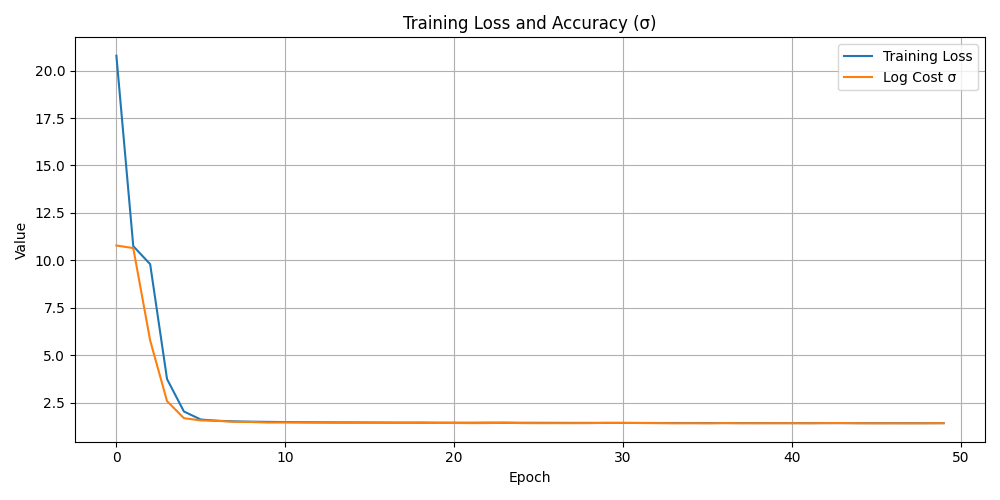
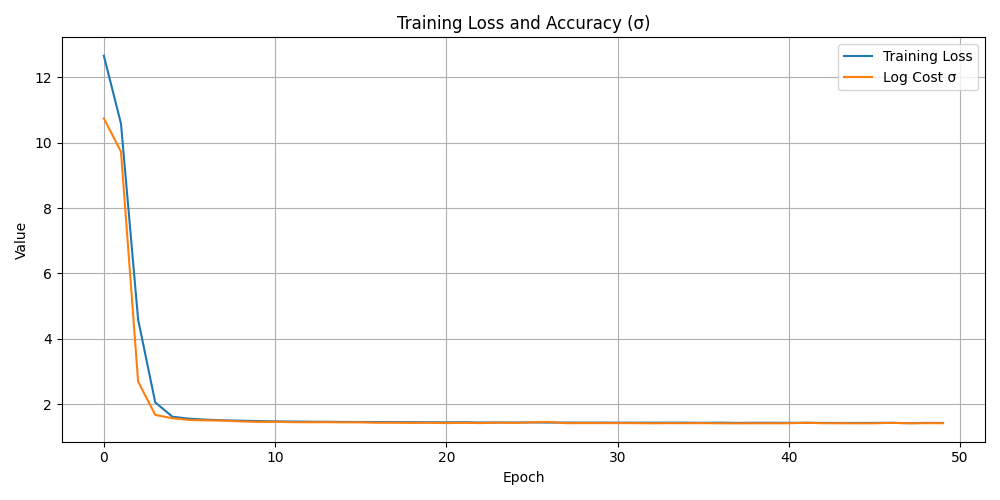
gnn is trash

diff --git a/project/gnn.py b/project/gnn.py
@@ -1,0 +1,221 @@
+import torch
+import torch.nn as nn
+import torch.optim as optim
+import joblib
+import os
+import numpy as np
+import matplotlib.pyplot as plt
+from sklearn.model_selection import train_test_split
+
+# PyTorch Geometric imports
+from torch_geometric.data import Data, Dataset
+from torch_geometric.loader import DataLoader
+from torch_geometric.nn import GCNConv, global_mean_pool
+
+# Load data (assumes results_subset_1M.pkl is in the working directory)
+print("loading df")
+df = joblib.load("results_subset_1M.pkl")
+max_k = int(df["k"].max())
+
+class GraphResultsDataset(Dataset):
+    def __init__(self, df):
+        super(GraphResultsDataset, self).__init__()
+        self.data_list = []
+        for idx, row in df.iterrows():
+            # Extract scalar parameters
+            n = int(row["n"])
+            k = int(row["k"])
+            m = int(row["m"])
+            # Process P: row["P"] should represent the systematic generator matrix's P part,
+            # which is a flattened vector for a k x (n-k) matrix.
+            P = np.array(row["P"], dtype=np.float32)
+            desired_size = k * (n - k)
+            if P.size != desired_size:
+                if P.size < desired_size:
+                    P = np.pad(P, (0, desired_size - P.size), mode="constant")
+                else:
+                    P = P[:desired_size]
+            P = P.reshape((k, n - k))
+            
+            node_features = []
+            # Nodes 0 to k-1: Identity columns (one-hot padded to length max_k)
+            for i in range(k):
+                vec = np.zeros(max_k, dtype=np.float32)
+                vec[i] = 1.0
+                node_features.append(vec)
+            # Nodes k to n-1: Columns from P (each is originally length k, pad to max_k)
+            for j in range(n - k):
+                vec = P[:, j]
+                if k < max_k:
+                    pad_width = max_k - k
+                    vec = np.pad(vec, (0, pad_width), mode="constant")
+                node_features.append(vec)
+            # Convert node features to a tensor of shape [n, max_k]
+            x = torch.tensor(np.stack(node_features), dtype=torch.float)
+            
+            # Create a fully connected graph (excluding self-loops)
+            src = []
+            dst = []
+            for i in range(n):
+                for j in range(n):
+                    if i != j:
+                        src.append(i)
+                        dst.append(j)
+            edge_index = torch.tensor([src, dst], dtype=torch.long)
+            
+            # Global features: store [n, k, m] as a tensor with shape [1, 3]
+            global_features = torch.tensor([n, k, m], dtype=torch.float).unsqueeze(0)
+            
+            # Target value (m-height)
+            y = torch.tensor([row["result"]], dtype=torch.float)
+            
+            # Create a PyG Data object and attach global features
+            data = Data(x=x, edge_index=edge_index, y=y)
+            data.global_features = global_features  # shape: [1, 3]
+            self.data_list.append(data)
+    def len(self):
+        return len(self.data_list)
+    
+    def get(self, idx):
+        return self.data_list[idx]
+
+ 
+full_dataset = None
+if(not os.path.exists("./graph_dataset.pkl")):
+    print("generating graph dataset")
+    full_dataset = GraphResultsDataset(df)
+    print("dumping graph_dataset in file")
+    joblib.dump(full_dataset, "./graph_dataset.pkl")
+else:
+    print("loading graph dataset")
+    full_dataset = joblib.load("./graph_dataset.pkl")
+    print("finished loading graph dataset")
+
+# Use the maximum k in the dataset to pad node features (so all node features have the same dimension)
+
+# Custom Loss Function
+class Log2Loss(nn.Module):
+    def __init__(self):
+        super(Log2Loss, self).__init__()
+    def forward(self, y_pred, y_true):
+        y_pred = torch.clamp(y_pred, min=1e-6)
+        y_true = torch.clamp(y_true, min=1e-6)
+        log_pred = torch.log2(y_pred)
+        log_true = torch.log2(y_true)
+        return torch.mean((log_pred - log_true) ** 2)
+
+# Custom PyG Dataset
+           
+# Create the dataset and split into training and validation sets
+indices = list(range(len(full_dataset)))
+train_indices, val_indices = train_test_split(indices, test_size=0.2, random_state=42)
+train_subset = [full_dataset.get(i) for i in train_indices]
+val_subset = [full_dataset.get(i) for i in val_indices]
+
+# Use PyTorch Geometric's DataLoader
+train_loader = DataLoader(train_subset, batch_size=512, shuffle=True)
+val_loader = DataLoader(val_subset, batch_size=512, shuffle=False)
+
+# Define the GNN Model
+class GNNModel(nn.Module):
+    def __init__(self, node_feature_dim, global_feature_dim, hidden_channels):
+        super(GNNModel, self).__init__()
+        self.conv1 = GCNConv(node_feature_dim, hidden_channels)
+        self.conv2 = GCNConv(hidden_channels, hidden_channels)
+        self.conv3 = GCNConv(hidden_channels, hidden_channels)
+        # MLP for combining pooled node features and global features
+        self.mlp = nn.Sequential(
+            nn.Linear(hidden_channels + global_feature_dim, 64),
+            nn.ReLU(),
+            nn.Linear(64, 32),
+            nn.ReLU(),
+            nn.Linear(32, 1)
+        )
+    def forward(self, data):
+        x, edge_index, batch = data.x, data.edge_index, data.batch
+        x = self.conv1(x, edge_index)
+        x = torch.relu(x)
+        x = self.conv2(x, edge_index)
+        x = torch.relu(x)
+        x = self.conv3(x, edge_index)
+        x = torch.relu(x)
+
+        x = global_mean_pool(x, batch)
+
+        global_feats = data.global_features
+        x = torch.cat([x, global_feats], dim=1)
+        x = self.mlp(x)
+        return x
+
+# Since node features are padded to length max_k, set node_feature_dim = max_k.
+node_feature_dim = max_k         # e.g. 6 if max(k) == 6
+global_feature_dim = 3           # for [n, k, m]
+hidden_channels = 128
+
+model = GNNModel(node_feature_dim, global_feature_dim, hidden_channels)
+
+# Move the model to GPU if available (and enable DataParallel if using multiple GPUs)
+device = torch.device("cuda" if torch.cuda.is_available() else "cpu")
+model.to(device)
+
+# Training setup
+criterion = Log2Loss()
+optimizer = optim.Adam(model.parameters(), lr=0.001)
+epochs = 50
+losses = []
+costs = []
+
+# Training loop
+for epoch in range(epochs):
+    model.train()
+    running_loss = 0.0
+    for batch in train_loader:
+        batch = batch.to(device)
+        optimizer.zero_grad()
+        outputs = model(batch)
+        loss = criterion(outputs, batch.y)
+        loss.backward()
+        optimizer.step()
+        running_loss += loss.item()
+    avg_train_loss = running_loss / len(train_loader)
+    losses.append(avg_train_loss)
+    
+    # Validation
+    model.eval()
+    val_loss = 0.0
+    all_preds = []
+    all_targets = []
+    with torch.no_grad():
+        for batch in val_loader:
+            batch = batch.to(device)
+            preds = model(batch)
+            loss = criterion(preds, batch.y)
+            val_loss += loss.item()
+            all_preds.append(preds.cpu())
+            all_targets.append(batch.y.cpu())
+    avg_val_loss = val_loss / len(val_loader)
+    preds = torch.cat(all_preds).clamp(min=1.0)
+    targets = torch.cat(all_targets)
+    log_pred = torch.log2(preds)
+    log_true = torch.log2(targets)
+    sigma = ((log_pred - log_true) ** 2).mean().item()
+    costs.append(sigma)
+    
+    print(f"Epoch {epoch+1}/{epochs} - Train Loss: {avg_train_loss:.4f} - Val Loss: {avg_val_loss:.4f} - σ (log cost): {sigma:.6f}")
+
+# Save the trained model
+torch.save(model.state_dict(), "trained_model.pt")
+
+# Plot training loss and log cost
+plt.figure(figsize=(10, 5))
+plt.plot(losses, label="Training Loss")
+plt.plot(costs, label="Log Cost σ")
+plt.xlabel("Epoch")
+plt.ylabel("Value")
+plt.title("Training Loss and Log Cost (σ)")
+plt.legend()
+plt.grid(True)
+plt.tight_layout()
+plt.savefig("training_loss_and_accuracy.png")
+print("Saved training plot as 'training_loss_and_accuracy.png'")
+
